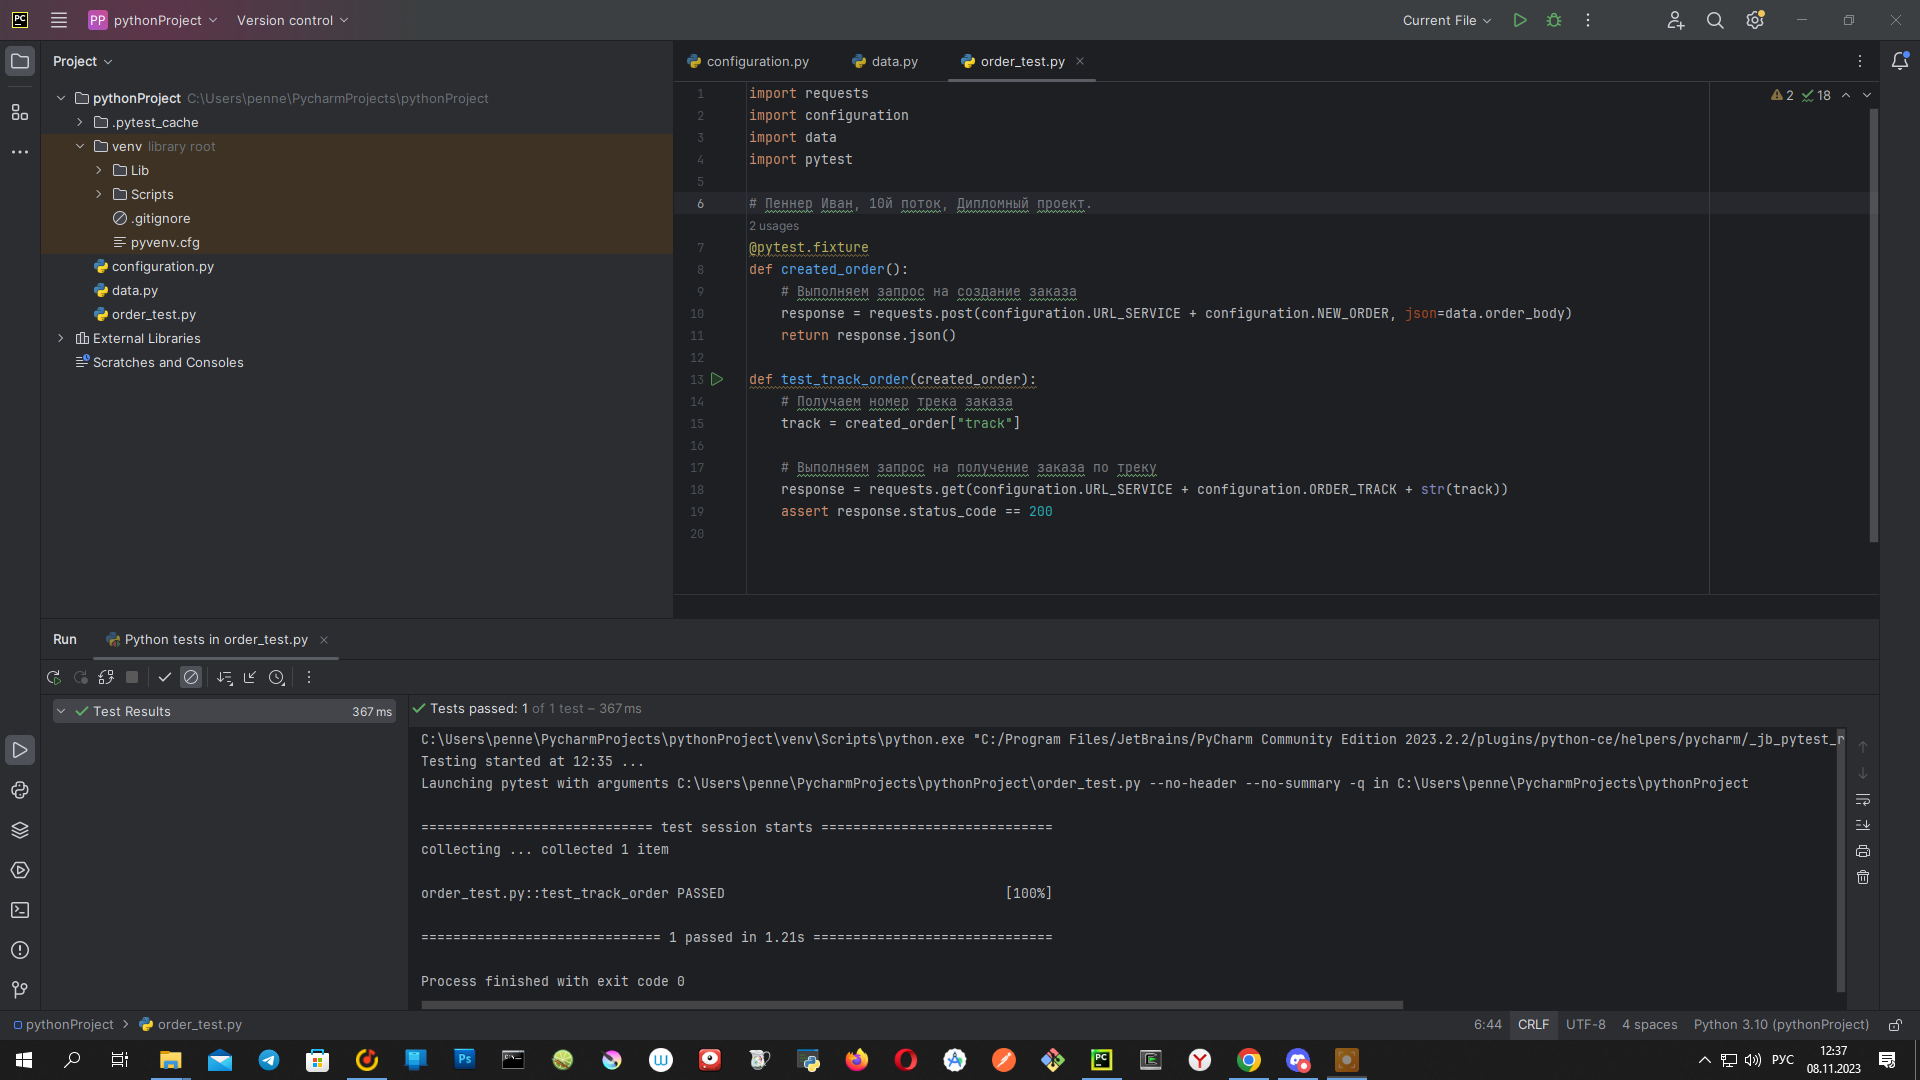
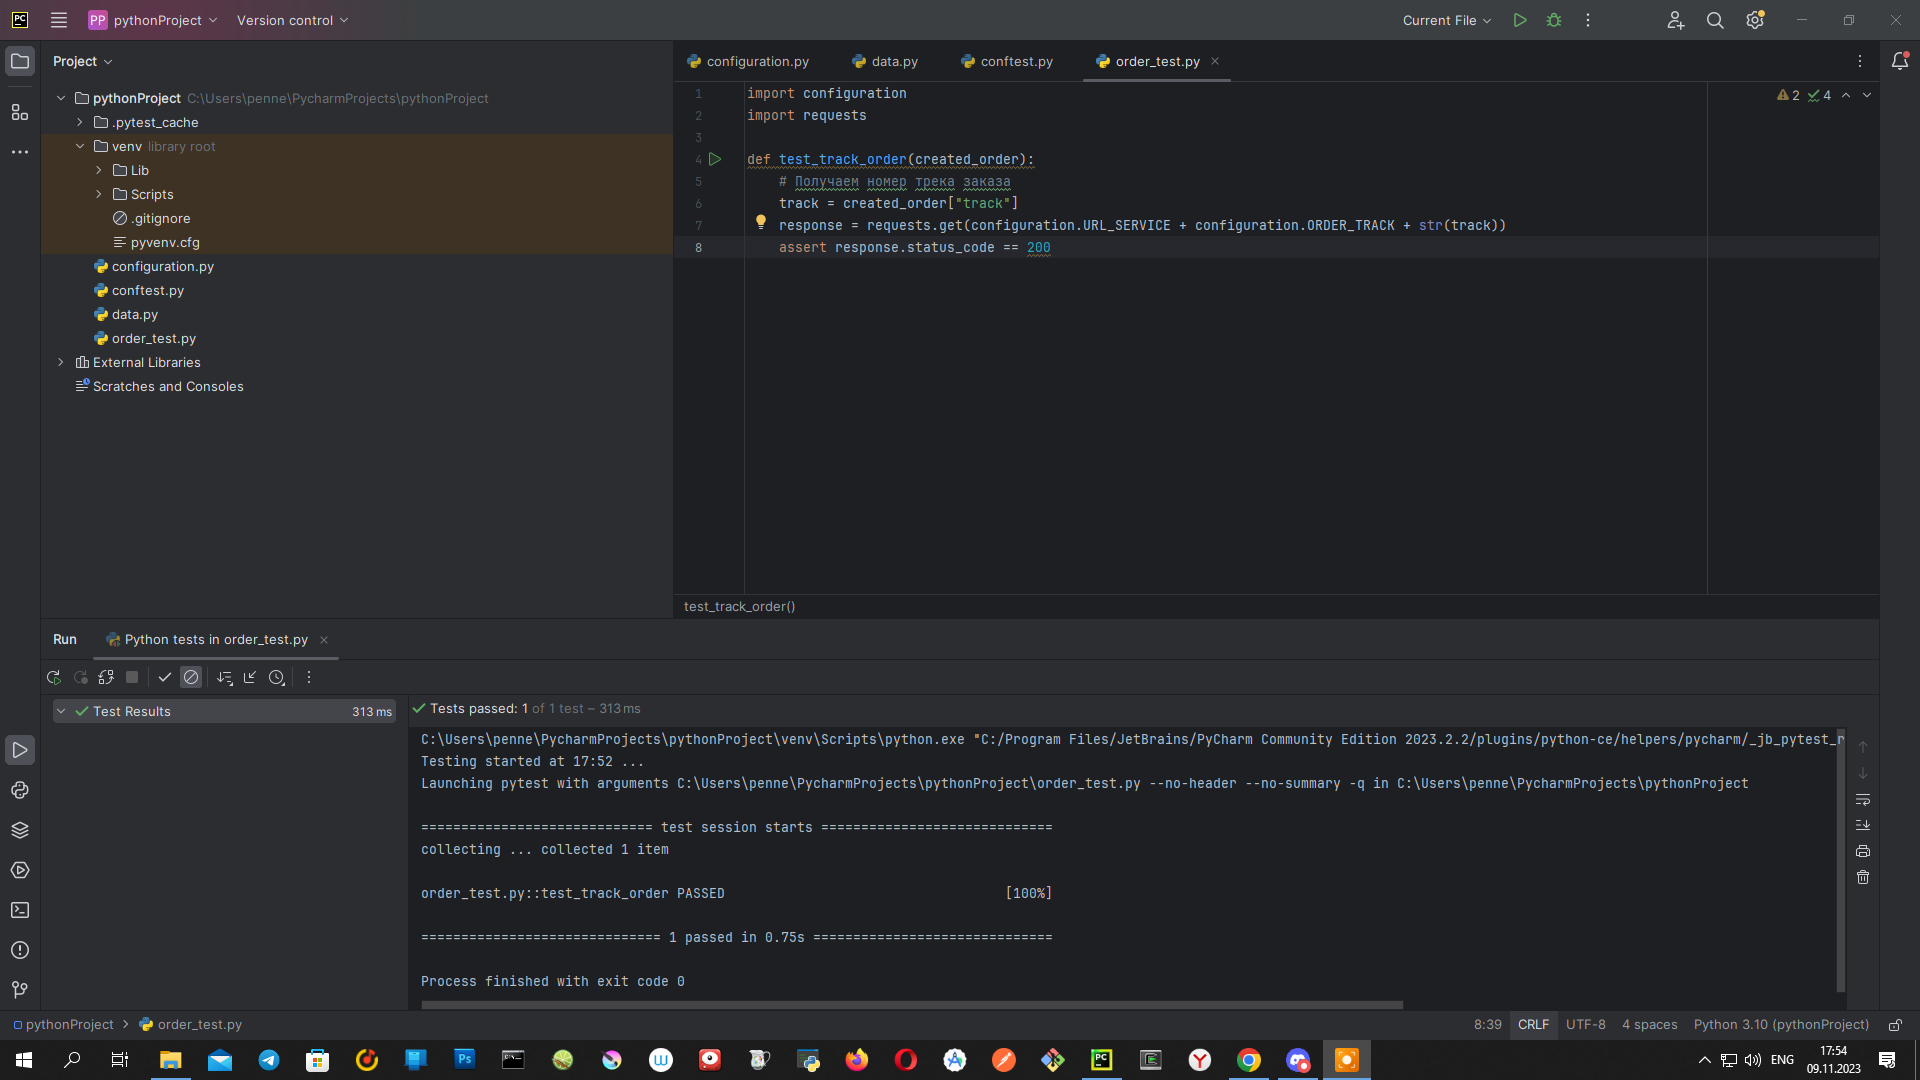
SQL -- в задании 2 оператор LEFT JOIN заменен на INNER JOIN. Автотест -- тест перенесен из файла с запросом в отдельный файл order_test.py

diff --git a/Диплом_Git/автотест/order_test.py b/Диплом_Git/автотест/order_test.py
@@ -1,19 +1,8 @@
-import requests
 import configuration
-import data
-import pytest
-
-# Пеннер Иван, 10й поток, Дипломный проект.
-@pytest.fixture
-def created_order():
-    # Выполняем запрос на создание заказа
-    response = requests.post(configuration.URL_SERVICE + configuration.NEW_ORDER, json=data.order_body)
-    return response.json()
+import requests
 
 def test_track_order(created_order):
     # Получаем номер трека заказа
     track = created_order["track"]
-
-    # Выполняем запрос на получение заказа по треку
     response = requests.get(configuration.URL_SERVICE + configuration.ORDER_TRACK + str(track))
     assert response.status_code == 200

diff --git a/Диплом_Git/автотест/conftest.py b/Диплом_Git/автотест/conftest.py
@@ -1,0 +1,12 @@
+import requests
+import configuration
+import data
+import pytest
+
+# Пеннер Иван, 10й поток, Дипломный проект.
+@pytest.fixture
+def created_order():
+    response = requests.post(configuration.URL_SERVICE + configuration.NEW_ORDER, json=data.order_body)
+    return response.json()
+
+

diff --git a/Диплом_Git/автотест/configuration.py b/Диплом_Git/автотест/configuration.py
@@ -1,3 +1,3 @@
-URL_SERVICE = "https://d06cc560-fed9-4a36-aeba-8c76d888e762.serverhub.praktikum-services.ru"
+URL_SERVICE = "https://c52cf2a8-b062-4ffd-a342-52c2448be1bc.serverhub.praktikum-services.ru"
 NEW_ORDER = "/api/v1/orders"
 ORDER_TRACK = "/api/v1/orders/track?t="
